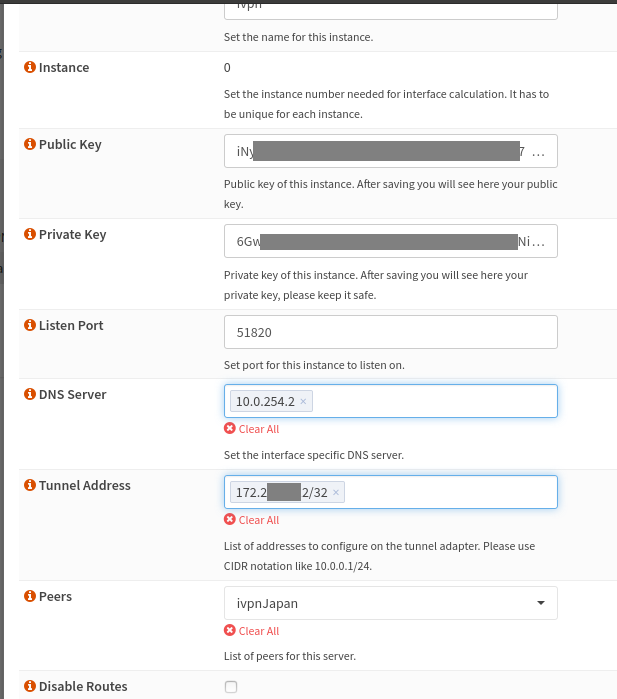
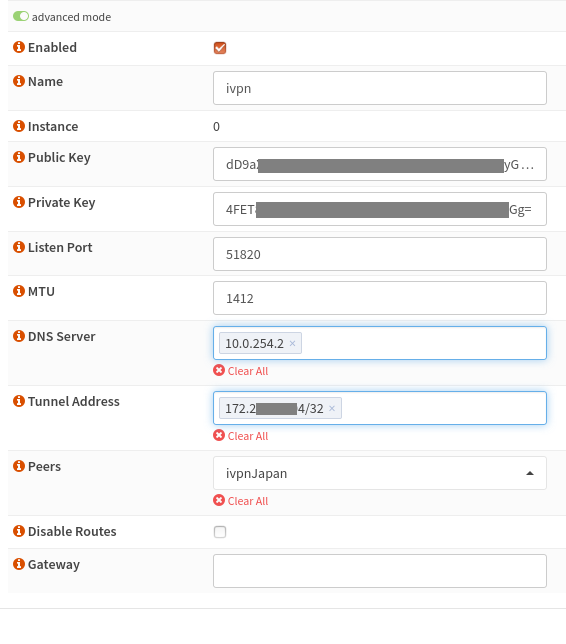
Update OPNSense guide, add MTU, update one screenshot; remove outdated FAQ from KB

Changed region(s): [[0.0, 0.0, 1.0, 1.0], [0.3604, 0.8696, 0.5707, 0.9938], [0.9611, 0.6211, 0.9912, 0.6522]]

diff --git a/src/content/pages/setup/router/opnsense.md b/src/content/pages/setup/router/opnsense.md
@@ -47,11 +47,12 @@ This guide was produced using OPNSense 20.1.
 
 ### Add a Local Interface
 
-1.  In the OPNSense web interface, go to `VPN > WireGuard > Local` and click the `+` to add a local interface:
+1.  In the OPNSense web interface, go to `VPN > WireGuard > Local` and click the `+` to add a local interface. Toggle `advanced mode` on and enter the following:
 
     <div markdown="1" class="notice notice--info">
-    <strong>Name:</strong> A short interface name, like ivpn.<br>
+    <strong>Name:</strong> A short interface name, like ivpn or ivpnJapan.<br>
     <strong>Listen Port:</strong> Default value is likely fine.<br>
+    <strong>MTU:</strong> 1412<br>
     <strong>DNS Server:</strong> The DNS server can be one of three options:<br><br>
     <i>172.16.0.1</i> = regular DNS with no blocking<br>
     <i>10.0.254.2</i> = standard AntiTracker to block advertising and malware domains<br>
